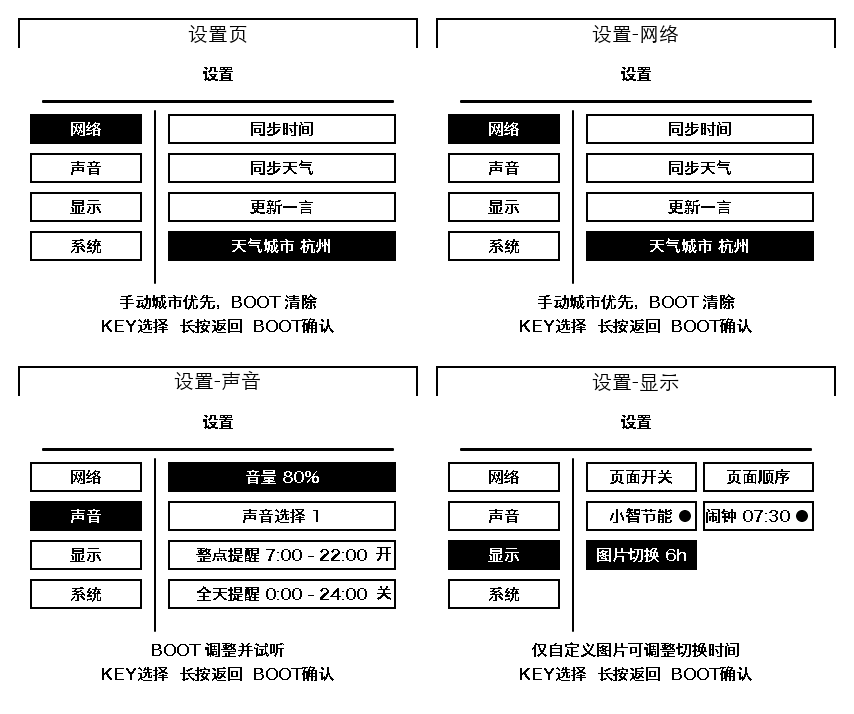
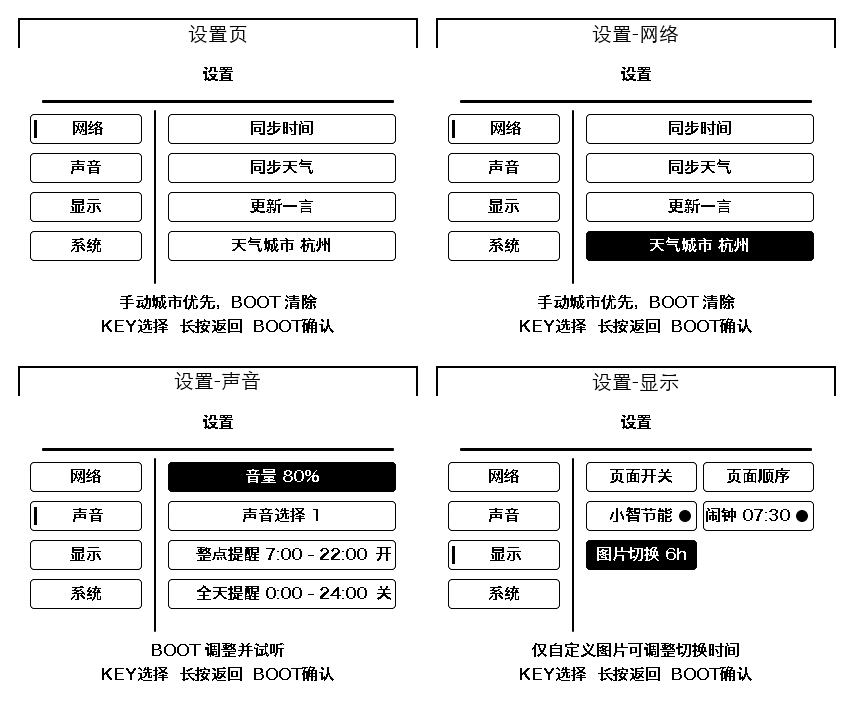
Publish clock source v1.6.2

diff --git a/RLCD_CLOCK/simulator/sdl_preview_settings.cpp b/RLCD_CLOCK/simulator/sdl_preview_settings.cpp
@@ -1,5 +1,6 @@
 // 构建设置页网络、声音、显示、系统和页面排序 SDL 静态预览。
 #include "sdl_preview_settings.h"
+#include "ui_settings_visual_style.h"
 
 #include "sdl_preview_widgets.h"
 #include "ui_settings_layout.h"
@@ -17,18 +18,9 @@ bool settings_preview_mode_is(const char *mode, const char *expected)
     return mode && expected && strcmp(mode, expected) == 0;
 }
 
-void style_settings_item(lv_obj_t *label, bool selected)
+void style_settings_item(lv_obj_t *label, bool selected, bool primary=false)
 {
-    lv_obj_set_style_bg_color(label, selected ? lv_color_black() : lv_color_white(), LV_PART_MAIN);
-    lv_obj_set_style_bg_opa(label, LV_OPA_COVER, LV_PART_MAIN);
-    lv_obj_set_style_text_color(label, selected ? lv_color_white() : lv_color_black(), LV_PART_MAIN);
-    lv_obj_set_style_border_color(label, lv_color_black(), LV_PART_MAIN);
-    lv_obj_set_style_border_width(label, 2, LV_PART_MAIN);
-    lv_obj_set_style_radius(label, 0, LV_PART_MAIN);
-    lv_obj_set_style_pad_left(label, 10, LV_PART_MAIN);
-    lv_obj_set_style_pad_right(label, 10, LV_PART_MAIN);
-    lv_obj_set_style_pad_top(label, 5, LV_PART_MAIN);
-    lv_obj_set_style_pad_bottom(label, 5, LV_PART_MAIN);
+    settings_visual_style(label, selected, primary);
 }
 
 lv_obj_t *make_settings_item(lv_obj_t *screen,
@@ -45,7 +37,8 @@ lv_obj_t *make_settings_item(lv_obj_t *screen,
     }
     lv_label_set_long_mode(label, LV_LABEL_LONG_CLIP);
     lv_obj_set_style_text_align(label, LV_TEXT_ALIGN_CENTER, LV_PART_MAIN);
-    style_settings_item(label, selected);
+    style_settings_item(label, selected, x==settings_layout::kSettingsPrimaryX);
+    if(x==settings_layout::kSettingsPrimaryX) settings_attach_category_marker(label);
     return label;
 }
 
@@ -174,7 +167,7 @@ void build_settings_preview_page(const char *mode)
                                settings_layout::kSettingsSecondaryW,
                                settings_layout::kSettingsSecondaryH,
                                network_items[i],
-                               i == 3);
+                               i == 3 && !settings_preview_mode_is(mode,"settings"));
         }
         feedback_label = make_label(screen, 24, 246, 352, 20, "手动城市优先，BOOT 清除");
     } else if (primary == 1) {

diff --git a/RLCD_CLOCK/tests/settings_visual_style_host_test.cpp b/RLCD_CLOCK/tests/settings_visual_style_host_test.cpp
@@ -1,0 +1,42 @@
+// 验证设置皮肤切换只修改样式，不改变对象几何和控件状态。
+#include "ui_settings_visual_style.h"
+#include <cassert>
+
+int main() {
+    lv_init();
+    static lv_color_t pixels[400*10];
+    lv_disp_draw_buf_t buffer;
+    lv_disp_draw_buf_init(&buffer,pixels,nullptr,400*10);
+    lv_disp_drv_t driver; lv_disp_drv_init(&driver);
+    driver.hor_res=400; driver.ver_res=300; driver.draw_buf=&buffer;
+    driver.flush_cb=[](lv_disp_drv_t *d,const lv_area_t *,lv_color_t *) {lv_disp_flush_ready(d);};
+    lv_disp_drv_register(&driver);
+    lv_obj_t *label=lv_label_create(lv_scr_act());
+    lv_obj_set_pos(label,150,66); lv_obj_set_size(label,111,30);
+    lv_label_set_text(label,"settings");
+    settings_attach_category_marker(label);
+    const lv_font_t *font=lv_obj_get_style_text_font(label,0);
+    for(int i=0;i<100;++i) {
+        settings_visual_style(label,true,true);
+        assert(lv_obj_get_style_border_width(label,0)==1);
+        assert(lv_obj_get_style_line_width(label,0)==3);
+        assert(lv_obj_get_style_pad_left(label,0)==14);
+        assert(lv_obj_get_style_pad_right(label,0)==10);
+        settings_visual_style(label,false,true);
+        assert(lv_obj_get_style_pad_left(label,0)==10);
+        assert(lv_obj_get_style_line_width(label,0)==0);
+        assert(lv_obj_get_style_text_color(label,0).full==lv_color_black().full);
+        settings_visual_style(label,true,false);
+        assert(lv_obj_get_style_radius(label,0)==4);
+        assert(lv_obj_get_style_text_color(label,0).full==lv_color_white().full);
+        settings_visual_style(label,false,false);
+        assert(lv_obj_get_style_border_width(label,0)==1);
+        assert(lv_obj_get_style_radius(label,0)==4);
+        assert(lv_obj_get_style_line_width(label,0)==0);
+        assert(lv_obj_get_style_text_font(label,0)==font);
+        lv_obj_update_layout(label);
+        assert(lv_obj_get_x(label)==150 && lv_obj_get_y(label)==66);
+        assert(lv_obj_get_width(label)==111 && lv_obj_get_height(label)==30);
+    }
+    assert(lv_mem_test()==LV_RES_OK);
+}

diff --git a/RLCD_CLOCK/main/ui/ui_settings_page.cpp b/RLCD_CLOCK/main/ui/ui_settings_page.cpp
@@ -1,5 +1,6 @@
 // 构建并刷新设置页及其菜单交互。
 #include "ui_settings_page.h"
+#include "ui_settings_visual_style.h"
 
 #include "alarm_services.h"
 #include "app_constexpr.h"
@@ -231,23 +232,15 @@ lv_obj_t *build_settings_menu_label(lv_obj_t *screen,
     }
     lv_label_set_long_mode(label, LV_LABEL_LONG_CLIP);
     center_align_label(label);
+    if(column==kSettingsMenuPrimaryColumn) settings_attach_category_marker(label);
     return label;
 }
 
 }
 
-static void style_settings_item(lv_obj_t *label, bool selected)
+static void style_settings_item(lv_obj_t *label, bool selected, bool primary=false)
 {
-    lv_obj_set_style_bg_color(label, selected ? lv_color_black() : lv_color_white(), LV_PART_MAIN);
-    lv_obj_set_style_bg_opa(label, LV_OPA_COVER, LV_PART_MAIN);
-    lv_obj_set_style_text_color(label, selected ? lv_color_white() : lv_color_black(), LV_PART_MAIN);
-    lv_obj_set_style_border_color(label, lv_color_black(), LV_PART_MAIN);
-    lv_obj_set_style_border_width(label, 2, LV_PART_MAIN);
-    lv_obj_set_style_radius(label, 0, LV_PART_MAIN);
-    lv_obj_set_style_pad_left(label, 10, LV_PART_MAIN);
-    lv_obj_set_style_pad_right(label, 10, LV_PART_MAIN);
-    lv_obj_set_style_pad_top(label, 5, LV_PART_MAIN);
-    lv_obj_set_style_pad_bottom(label, 5, LV_PART_MAIN);
+    settings_visual_style(label, selected, primary);
 }
 
 static void style_settings_switch_dot(lv_obj_t *dot, bool on, bool selected)
@@ -387,7 +380,7 @@ bool update_settings_primary_items(int primary, bool selection_changed)
         if (s_settings_labels[i]) {
             changed |= set_label_text_if_changed(s_settings_labels[i], kSettingsPrimaryItems[i]);
             if (selection_changed) {
-                style_settings_item(s_settings_labels[i], i == primary);
+                style_settings_item(s_settings_labels[i], i == primary, true);
             }
         }
     }

diff --git a/RLCD_CLOCK/main/ui/ui_settings_visual_style.h b/RLCD_CLOCK/main/ui/ui_settings_visual_style.h
@@ -1,0 +1,36 @@
+// 设置页测试皮肤：仅改变视觉属性，菜单结构与输入状态不变。
+#pragma once
+#include "lvgl.h"
+
+inline void settings_attach_category_marker(lv_obj_t *label) {
+    if(!label) return;
+    lv_obj_add_event_cb(label,[](lv_event_t *e) {
+        lv_obj_t *obj=lv_event_get_target(e);
+        const int width=lv_obj_get_style_line_width(obj,0);
+        if(width==0) return;
+        lv_area_t area; lv_obj_get_coords(obj,&area);
+        lv_area_t marker={(lv_coord_t)(area.x1+4),(lv_coord_t)(area.y1+6),
+                          (lv_coord_t)(area.x1+3+width),(lv_coord_t)(area.y2-6)};
+        lv_draw_rect_dsc_t style; lv_draw_rect_dsc_init(&style);
+        style.bg_color=lv_color_black();
+        lv_draw_rect(lv_event_get_draw_ctx(e),&style,&marker);
+    },LV_EVENT_DRAW_MAIN,nullptr);
+}
+
+inline void settings_visual_style(lv_obj_t *label,bool selected,bool primary) {
+    if(!label) return;
+    const bool reverse=selected && !primary;
+    lv_obj_set_style_bg_color(label,reverse?lv_color_black():lv_color_white(),0);
+    lv_obj_set_style_bg_opa(label,LV_OPA_COVER,0);
+    lv_obj_set_style_text_color(label,reverse?lv_color_white():lv_color_black(),0);
+    lv_obj_set_style_border_color(label,lv_color_black(),0);
+    lv_obj_set_style_border_side(label,LV_BORDER_SIDE_FULL,0);
+    lv_obj_set_style_border_width(label,1,0);
+    lv_obj_set_style_radius(label,4,0);
+    lv_obj_set_style_line_width(label,primary && selected?3:0,0);
+    // Center-aligned text moves two pixels; the option frame stays fixed.
+    lv_obj_set_style_pad_left(label,primary && selected?14:10,0);
+    lv_obj_set_style_pad_right(label,10,0);
+    lv_obj_set_style_pad_top(label,5,0);
+    lv_obj_set_style_pad_bottom(label,5,0);
+}

diff --git a/RLCD_CLOCK/simulator/main.cpp b/RLCD_CLOCK/simulator/main.cpp
@@ -30,7 +30,7 @@ using sdl_preview_widgets::make_label_with_font;
 static constexpr int kDisplayWidth = 400;
 static constexpr int kDisplayHeight = 300;
 static constexpr int kWindowScale = 2;
-static const char *APP_VERSION = "v1.6.1";
+static const char *APP_VERSION = "v1.6.2";
 
 static SdlPreviewBackend g_sdl_preview(kDisplayWidth, kDisplayHeight);
 static sdl_preview_progress::Canvas g_work_page_day_progress;

diff --git a/RLCD_CLOCK/main/core/app_metadata.cpp b/RLCD_CLOCK/main/core/app_metadata.cpp
@@ -2,7 +2,7 @@
 #include "app_metadata.h"
 
 const char *const TAG = "WeatherClock";
-const char *const APP_VERSION = "v1.6.1";
+const char *const APP_VERSION = "v1.6.2";
 #ifndef WEATHER_CLOCK_BUILD_DATE
 #define WEATHER_CLOCK_BUILD_DATE "unknown"
 #endif

diff --git a/host_web/AI_HOST_WEB_GUIDE.md b/host_web/AI_HOST_WEB_GUIDE.md
@@ -8,7 +8,7 @@ Work in this branch is limited to `host_web/`.
 
 Read the repository-root AGENTS.md, TASK.md, HANDOFF.md and docs/DECISIONS.md before development. Ordinary changes follow the same rules as firmware: validate, commit and push Gitea only. Keep firmware versions unchanged for web-only work.
 
-With explicit one-time authorization, use the unified source publisher with GITHUB_CLOCK_SOURCE_ONLY=1. The only active public repository is `wickenzh/ESP32-S3-RLCD-4.2`, with firmware under `RLCD_CLOCK/` and this app under `host_web/`. Never push to the old `_Web` repository unless the user explicitly requests maintenance of that legacy site. Its existing history and Pages remain untouched.
+With explicit one-time authorization, use the unified source publisher with GITHUB_CLOCK_SOURCE_ONLY=1. The only active public repository is `wickenzh/ESP32-S3-RLCD-4.2`, with firmware under `RLCD_CLOCK/` and this app under `host_web/`. The old `_Web` repository retains its code and history, but its Pages site was removed and deployment workflow disabled at the user's request on 2026-09-09. Do not re-enable or publish the legacy site without explicit authorization.
 
 ## Product Focus
 

diff --git a/firmware/OTA_RELEASE_NOTES.md b/firmware/OTA_RELEASE_NOTES.md
@@ -1,4 +1,4 @@
-v1.6.1：共 2 项更新。
-1. 优化聚合时钟信息区：天气标题改为反显、正文使用白底，日期采用细框，并以静态有方向点阵过…
-2. 优化图片时钟每日文字装饰线：根据文字实际宽度自适应显示两侧双线；原有数字、字号、位置和…
+v1.6.2：共 2 项更新。
+1. 优化设置页视觉层次：所有选项采用 1px 圆角框，分类选中使用框内短竖条标记，操作项继…
+2. 优化设置页分类选中反馈：选中文字轻微右移 2px，取消选中后恢复原位置，外框和菜单坐标…
 完整说明见源码仓库同版本 Release。
